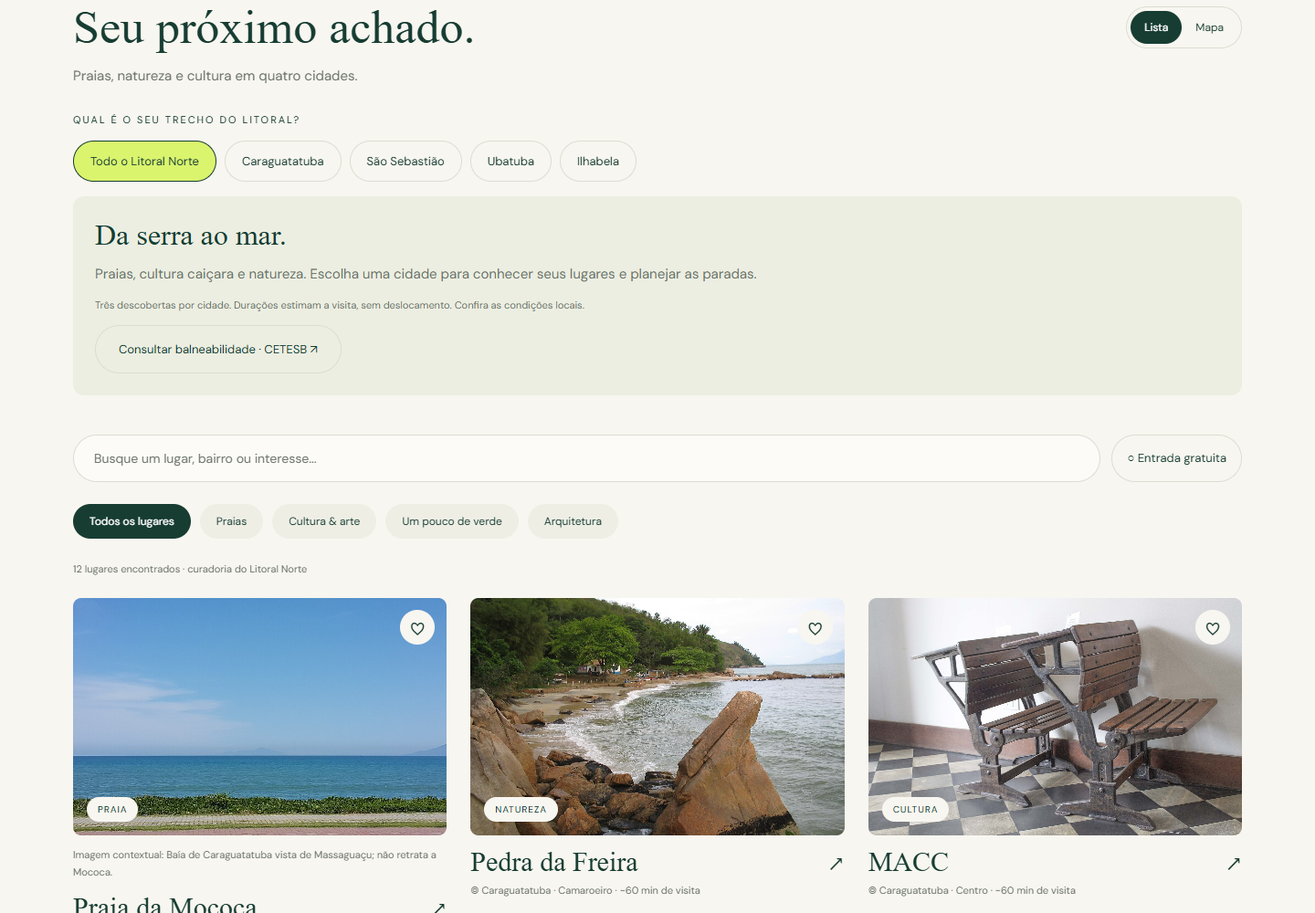
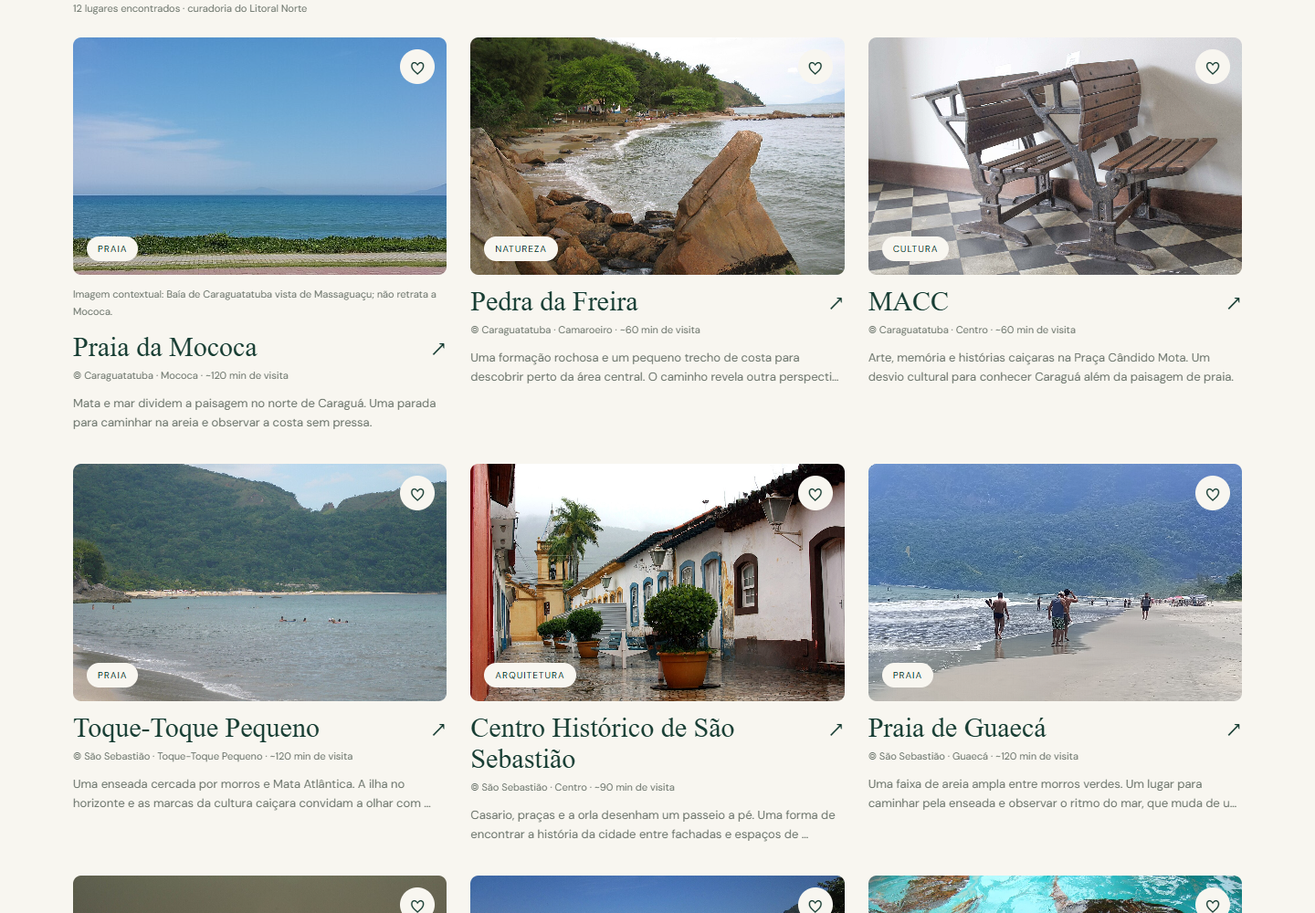
docs: verify coastal release and update screenshots and academic PDF

diff --git a/docs/ENTREGA.md b/docs/ENTREGA.md
@@ -10,19 +10,19 @@
 
 **Equipe:** identificação pendente
 
-Projeto acadêmico original de guia pessoal de São Paulo, com Expo e React Native. Campos de equipe e QA físico precisam de fatos fornecidos pelos alunos; não são resultados presumidos. A responsabilidade pelo código, inclusive apoio de IA, é da equipe.
+Projeto acadêmico original de guia pessoal do Litoral Norte, com Expo e React Native. Campos de equipe e QA físico precisam de fatos fornecidos pelos alunos; não são resultados presumidos. A responsabilidade pelo código, inclusive apoio de IA, é da equipe.
 
 ## 1. Motivação do projeto
 
 ### Problema e público
 
-Estudantes e moradores querem um passeio cultural ou ao ar livre sem navegar por listas enormes. Reunir história curta, endereço, fonte oficial e uma lista pessoal ajuda a decidir e lembrar o que visitar. O catálogo inicial tem seis lugares reais; não pretende representar toda São Paulo nem prometer atrações secretas.
+Estudantes e moradores querem um passeio cultural ou ao ar livre sem navegar por listas enormes. Reunir história curta, endereço, fonte oficial e uma lista pessoal ajuda a decidir e lembrar o que visitar. A descoberta reúne 12 lugares reais: três em cada cidade de Caraguatatuba, São Sebastião, Ubatuba e Ilhabela. Não pretende representar todos os atrativos nem prometer lugares secretos.
 
-**Persona ilustrativa, não entrevistada:** Júlia, 21 anos, estudante em São Paulo, tem algumas horas livres no fim de semana e quer combinar dois espaços culturais. Deseja guardar opções, ordenar paradas e anotar lembranças sem criar conta. Essa hipótese precisa de validação com usuários; não há ganho de tempo medido.
+**Persona ilustrativa, não entrevistada:** Júlia, 21 anos, estudante e moradora de Caraguatatuba, quer conhecer a própria cidade e planejar um passeio nas cidades vizinhas de São Sebastião, Ubatuba ou Ilhabela. Deseja guardar opções, ordenar paradas e anotar lembranças sem criar conta. Essa hipótese precisa de validação com usuários; não há ganho de tempo medido.
 
 ### Proposta de valor e mobile
 
-“Faça um pequeno desvio na rotina.” Descoberta editorial, favoritos, roteiro de até seis paradas e passaporte privado com notas de até 280 caracteres compõem um fluxo individual. O celular acompanha o passeio: GPS oferece proximidade/verificação de posição, câmera registra lembrança e haptics confirma interação. Visita manual tem identificação própria e não simula GPS.
+“Faça um pequeno desvio na rotina.” Escolha de cidade, busca por nome/bairro/cidade, categoria Praias e descoberta editorial, favoritos, roteiro de até seis paradas e passaporte privado com notas de até 280 caracteres compõem um fluxo individual. O celular acompanha o passeio: GPS oferece proximidade/verificação de posição, câmera registra lembrança e haptics confirma interação. Visita manual tem identificação própria e não simula GPS.
 
 A camada mobile foi criada para este projeto. A versão web tem mapa Leaflet/OSM e layout editorial; não substitui os recursos físicos nativos. Assets são empacotados no aplicativo. Web exige primeira abertura online e não garante hard reload offline; mapas e links externos dependem de conexão. Sem backend, conta ou sincronização: o recorte evita coleta remota desnecessária e simplifica uso individual. Limpar armazenamento/desinstalar pode apagar dados.
 
@@ -71,7 +71,7 @@ Durante a revisão, foi encontrado risco de salvar nota antiga quando o texto er
 - Validar busca combinada, acentos, coordenadas, unicidade/limite do roteiro e evolução dos IDs do catálogo em regras puras.
 - Persistir foto capturada na área do app e tratar cancelamento/recusa sem perder notas; URI temporária não comprova persistência.
 - Diferenciar distância aproximada em linha reta de navegação real e visita manual de confirmação por GPS.
-- Distinguir hero fictícia gerada por IA de fotografias documentais de arquivo, com créditos e licenças; apresentar preços condicionais com honestidade editorial.
+- Identificar a hero regional real de Jabaquara, Ilhabela e fotos documentais de arquivo, com créditos e licenças; apresentar preços condicionais com honestidade editorial.
 
 Os itens preventivos são critérios de investigação, separados dos obstáculos reais relatados acima. Resultados concretos de implementação/QA devem ser acrescentados pelo responsável com evidência; não há teste físico aprovado nesta versão.
 
@@ -100,14 +100,14 @@ Atlas Obscura combina mapa, histórias, listas e registro de lugares visitados. 
 
 | Dimensão | Google Maps | Atlas Obscura | Desvio |
 | --- | --- | --- | --- |
-| Recorte | Navegação/descoberta ampla | Descobertas e histórias | Seis lugares paulistanos |
+| Recorte | Navegação/descoberta ampla | Descobertas e histórias | 12 lugares do Litoral Norte |
 | Guardar | Listas | Listas e visitados | Favoritos/roteiro/passaporte |
-| Navegação | Serviço próprio anunciado | Mapa anunciado | Link Google Maps; distância aproximada |
+| Navegação | Serviço próprio anunciado | Mapa anunciado | Google Maps em modo carro |
 | Dados pessoais | Serviço de conta | Recursos de comunidade | Locais, sem conta/backend |
 
 ### Críticas públicas e limites
 
-**Atlas Obscura, Ashley Arnold, 02/09/2026:** uma avaliação na Google Play relata insatisfação com a cobertura de seu bairro parisiense. É opinião individual, não prova da cobertura atual em São Paulo. Consequência para o Desvio: comunicar claramente a dimensão reduzida do catálogo, sem prometer completude. [Avaliação exibida na loja](https://play.google.com/store/apps/details?id=com.atlasobscura.android&hl=en_US).
+**Atlas Obscura, Ashley Arnold, 02/09/2026:** uma avaliação na Google Play relata insatisfação com a cobertura de seu bairro parisiense. É opinião individual, não prova da cobertura atual no Litoral Norte. Consequência para o Desvio: comunicar claramente a dimensão reduzida e regional do catálogo, sem prometer completude. [Avaliação exibida na loja](https://play.google.com/store/apps/details?id=com.atlasobscura.android&hl=en_US).
 
 **Atlas Obscura, Jeffrey Carpenter, 29/10/2022:** critica a busca por cidade. O desenvolvedor responde em 27/01/2023 que adicionou busca por localização. O relato é histórico e não demonstra falha atual. Consequência: testar busca e clareza do recorte. [Avaliação e resposta na loja](https://play.google.com/store/apps/details?id=com.atlasobscura.android&hl=en_US).
 
@@ -127,7 +127,7 @@ O diferencial pretendido é um fluxo pessoal curto, em português, com curadoria
 | Recursos nativos | 15% | GPS, câmera, haptics e persistência demonstrados em aparelho |
 | GitHub/README | 10% | Instruções, galeria real, .gitignore e commits reais do grupo |
 
-Prazo do enunciado: 07/12 às 23h59; confirmar o ano com o professor. Entregar link de repositório acessível e PDF. Publicação confirmada: [aplicação HTTPS](https://desvio-lugares.vercel.app) e [repositório público](https://github.com/EznRB/desvio-lugares). Rotas de início, lugar, roteiro, passaporte e créditos responderam HTTP 200; o fluxo remoto aprovou 30 verificações, sem erros de página. Evidências e versão verificada em VERIFICACAO.md. Participação real da equipe e hardware físico continuam pendentes.
+Prazo do enunciado: 07/12 às 23h59; confirmar o ano com o professor. Entregar link de repositório acessível e PDF. Publicação confirmada: [aplicação HTTPS](https://desvio-lugares.vercel.app) e [repositório público](https://github.com/EznRB/desvio-lugares). Rotas de início, lugar, roteiro, passaporte e créditos responderam HTTP 200; o fluxo regional remoto aprovou 44 verificações, sem erros de página. Evidências e versão verificada em VERIFICACAO.md. Participação real da equipe e hardware físico continuam pendentes.
 
 - [ ] Preencher integrantes, matrículas, GitHub e responsabilidades reais.
 - [ ] Validar aparelho físico conforme VALIDACAO-MOBILE.md.
@@ -138,4 +138,13 @@ Prazo do enunciado: 07/12 às 23h59; confirmar o ano com o professor. Entregar l
 
 ## Honestidade visual e fontes
 
-Hero gerada por IA é cena fictícia. As seis fotografias Wikimedia Commons retratam os locais identificados, mas são registros de arquivo e não garantem estado atual. Créditos, autores, datas, licenças e adaptações constam em CREDITOS-FOTOS.md e na tela Créditos acessível pelo rodapé; os dados também ficam em src/data/credits.ts. Fontes oficiais e limites de preços/acesso estão em REFERENCIAS.md. Fotografias de terceiros não comprovam uma visita do usuário. Não inventar entrevistas, reviews ou resultados de hardware.
+A abertura regional usa fotografia real de Jabaquara, Ilhabela. Das 12 imagens regionais, onze mostram o lugar exato; Mococa usa imagem contextual de Caraguatatuba, identificada por legenda. Créditos, autores, licenças e adaptações ficam em CREDITOS-LITORAL.md e src/data/coastal-photos.ts. São registros de arquivo, sem garantia de estado atual. Créditos do acervo anterior continuam em CREDITOS-FOTOS.md. Fontes oficiais e limites de preços/acesso estão em REFERENCIAS.md. Fotografias de terceiros não comprovam uma visita do usuário. Não inventar entrevistas, reviews ou resultados de hardware.
+
+
+## Especialização regional e continuidade
+
+O seletor de cidade delimita a descoberta e a busca inclui município. Roteiros abrem Google Maps em modo carro, com aviso de balsa quando incluem Ilhabela; o aplicativo não calcula filas, tarifas ou condições atuais da travessia. Pinos editoriais aproximados não representam entrada de trilha nem acesso GPS preciso. O passaporte verifica proximidade com essas limitações, sem certificar identidade ou segurança do local.
+
+As seis entradas anteriores de São Paulo continuam no acervo por compatibilidade com links e dados pessoais, mas ficam fora do Descobrir regional. Preservar favoritos, roteiros e passaporte evita perda de histórico na evolução do catálogo. FONTES-LITORAL.md documenta as fontes e condições variáveis: gratuidades de praias referem-se somente à areia; serviços/transporte são independentes. Não são informados horários ou balneabilidade em tempo real.
+
+A versão regional aprovou 44 verificações E2E remotas sem erros, incluindo detalhes das quatro cidades. Deploy 086b6bd Ready: [implantação](https://desvio-lugares-mm054oz75-eznrbs-projects.vercel.app). [CI aprovada](https://github.com/EznRB/desvio-lugares/actions/runs/43529913243): instalação limpa, nove testes, TypeScript, lint, Expo Doctor e exportações Android/web. Evidências em VERIFICACAO.md. Equipe e hardware físico permanecem pendentes. O benchmark mantém a pesquisa anterior, sem superioridade regional comprovada.

diff --git a/docs/VERIFICACAO.md b/docs/VERIFICACAO.md
@@ -1,35 +1,49 @@
-# Verificação — Desvio
+# Verificação — Desvio Litoral Norte
 
-Registro de 13/11/2026. Node24; Chrome desktop e viewport390×844. Logs completos locais em logs/ (ignorados no Git).
+Registro de 13/11/2026. Código regional validado no commit `086b6bd`. Node24; Chrome desktop1440×1000 e viewport mobile390×844. Logs integrais locais em logs/ (ignorados no Git).
 
 | Verificação executada | Resultado |
 | --- | --- |
-| npm test | 5 testes aprovados: filtros/acentos, Haversine, trajetos, persistência/evolução e dados corrompidos |
+| npm test | 9 testes aprovados: filtros/acentos/cidades, Haversine, trajetos, catálogo/fotos, preservação de dados e corrupção |
 | npm run typecheck | Aprovado, sem erros |
 | npm run lint | Aprovado, sem erros/avisos |
-| npx expo-doctor | 20/20 verificações aprovadas |
-| Inicialização Expo | Metro iniciado offline na porta8083, sem erros de configuração |
-| Expo export web | Bundle gerado em dist |
-| Expo export Android | Bundle Hermes gerado em dist-android; não equivale a APK ou teste físico |
-| node scripts/e2e.cjs | 30 verificações aprovadas, nenhum pageerror |
-| node scripts/visual-check.cjs | 4 capturas reais; revisão visual desktop/mobile; sem overflow horizontal |
-| PDF | 6 páginas; extração e renderização verificadas, sem cortes observados |
-| Revisão de código | Nota durante GPS/câmera corrigida: campo bloqueado enquanto a operação aguarda |
+| Expo Doctor | Aprovado no CI da versão regional |
+| Expo export web | Bundle regional gerado em dist |
+| Expo export Android | Bundle Hermes regional gerado; não equivale a APK ou teste físico |
+| E2E local | 44 verificações aprovadas, sem pageerror |
+| E2E produção HTTPS | Mesmas 44 verificações aprovadas, sem pageerror |
+| Revisão visual | 5 capturas reais desktop/mobile; sem overflow horizontal observado |
+| Revisão de código | Sem achados acionáveis em filtro, continuidade de dados e roteiro |
 
-## Escopo do navegador
-Busca combinada com categoria/gratuidade, acentos, vazio e limpar; favorito e visita após recarga; adicionar/remover/reordenar roteiro e abrir Google Maps; seis marcadores Leaflet e seleção; nota manual corretamente identificada; remover visita com confirmação; link inválido; navegação e escrita offline após primeira abertura; dados corrompidos preservados; falha de quota sem falsa confirmação ou gravação parcial e recuperação posterior. Asserções verificam estado persistido e interface, sem depender de fotos ou GPS simulados.
+## Cenários de navegador
+- Cada uma das quatro cidades retorna três lugares; busca por `sao sebastiao` funciona sem acentos e combina com categoria, cidade e gratuidade. Limpar filtros recupera os12 lugares.
+- Favoritos e visitas persistem após recarga; nota manual não simula GPS; remoção de visita exige confirmação.
+- Adicionar/remover/reordenar roteiro; Google Maps recebe as paradas. Ilhabela mostra aviso de travessia; deslocamentos são de carro, não um passeio a pé entre municípios.
+- Mapa com12 marcadores e seleção do lugar; navegação em viewport mobile sem rolagem horizontal da página.
+- Navegação e escrita offline depois da abertura; sem promessa de reabertura web por hard reload sem rede.
+- Dados locais corrompidos não são sobrescritos; falha de quota não publica estado não persistido e permite nova tentativa.
+- Um contexto isolado com favoritos, roteiro e visita da capital foi carregado na versão regional; depois de salvar um novo favorito do litoral, todos os registros anteriores permaneceram intactos. Os seis locais antigos continuam acessíveis por links/salvos, fora da descoberta principal.
+- Estados dos filtros expostos com aria-pressed/aria-checked no navegador, preservando accessibilityState nativo.
 
-Para reproduzir: Node24, npm ci, npx expo export --platform web --max-workers 2, npm run preview em outro terminal e node scripts/e2e.cjs. Chrome instalado ou CHROME_PATH apontando para executável compatível. BASE_URL permite testar outra implantação.
+## Publicação e CI
 
-## Limites e pendências acadêmicas
-- Nenhum aparelho físico foi conectado: câmera, GPS, permissões negadas/canceladas, fotos após reinício e haptics exigem o roteiro em VALIDACAO-MOBILE.md. Não declarar esses casos aprovados com uma captura de navegador.
-- Preencher integrantes/matrículas/papéis e registrar contribuições reais. O histórico não foi distribuído artificialmente entre autores.
-- Web não garante reabertura offline por hard reload; mapa e links externos precisam de rede. Dados são locais, sem sincronização/conta.
-- npm audit --omit=dev registrou três entradas moderadas da mesma cadeia Expo → fingerprint → minimatch, sem entradas altas/críticas. O advisory de amplificação de globs afeta ferramenta de build, sem glob fornecido pelo visitante neste app. A sugestão automática de downgrade para Expo52 não foi aplicada por quebrar a base SDK58. Reavaliar quando a cadeia Expo publicar atualização compatível; relatório integral local logs/audit.json.
+Site: https://desvio-lugares.vercel.app
+Repositório: https://github.com/EznRB/desvio-lugares
+Implantação regional: https://desvio-lugares-mm054oz75-eznrbs-projects.vercel.app — READY.
 
-## Publicação
-Site público: https://desvio-lugares.vercel.app. Repositório público: https://github.com/EznRB/desvio-lugares.
+HTTPS200 observado no início e em links diretos para /place/caragua-mococa, /place/saoseb-centro-historico, /place/ubatuba-tamar e /place/ilhabela-vila. O script E2E executado com BASE_URL público passou nas44 verificações. As escritas acontecem apenas no armazenamento dos contextos isolados de teste, sem dados públicos.
 
-Vercel deployment dpl_HxZwXMchmAVUEP3ER7AHvmEuNScw em estado READY. HTTP200 por HTTPS em /, /place/vila-itororo, /route, /passport e /credits sem login. O mesmo scripts/e2e.cjs executado com BASE_URL de produção passou nas 30 verificações, sem pageerror. Testa dados locais do contexto isolado do navegador; não cria dados públicos.
+CI Linux aprovado: https://github.com/EznRB/desvio-lugares/actions/runs/43529913243. Instalação limpa, testes, TypeScript, lint, Doctor e exportações Android/web concluídos com sucesso. Deploy automático do GitHub para a Vercel confirmado no push regional.
 
-GitHub Actions executou instalação limpa, 5 testes, TypeScript, lint, Doctor e exportações Android/web em Linux: https://github.com/EznRB/desvio-lugares/actions/runs/43483026184.
+## Reprodução
+
+Node24, npm ci, npx expo export --platform web --max-workers 2, npm run preview em outro terminal e node scripts/e2e.cjs. Chrome instalado ou CHROME_PATH apontando para executável compatível. BASE_URL permite verificar outra implantação. node scripts/visual-check.cjs produz as cinco capturas; esta prévia deve servir o bundle atualizado.
+
+## Limites mantidos
+
+- Câmera, GPS, recusa/cancelamento de permissões, haptics e fotos após reinício ainda precisam de aparelho físico conforme VALIDACAO-MOBILE.md. A exportação Android e a viewport mobile não comprovam esses casos.
+- Preencher equipe, matrículas, papéis e contribuições reais antes da submissão; não há autores ou histórico artificialmente distribuídos.
+- Dados são locais, sem conta/sincronização. Web e mapas externos não têm garantia de reabertura offline.
+- Pinos e durações são referências editoriais. Horários, valores, balneabilidade e operação da balsa não são dados em tempo real. Fontes em FONTES-LITORAL.md.
+- Onze fotos regionais representam o lugar exato; a de Mococa é contextual da Baía de Caraguatatuba vista de Massaguaçu, com legenda explícita. Autoria/licenças em CREDITOS-LITORAL.md e no app.
+- A auditoria de dependências anterior, com o mesmo package-lock, registrou três entradas moderadas na cadeia Expo → fingerprint → minimatch, sem altas/críticas no recorte de produção. Não foi repetida sem alteração de dependências. A sugestão automática de downgrade para SDK52 não foi aplicada por incompatibilidade. Relatório original local logs/audit.json.

diff --git a/README.md b/README.md
@@ -1,6 +1,6 @@
 # Desvio
 
-**Pequenas descobertas, outro jeito de ver São Paulo.** Guia pessoal de seis lugares com curadoria, favoritos, roteiro e passaporte de visitas. Aplicativo original em React Native, Expo SDK 58, TypeScript e Expo Router; experiência web editorial e recursos móveis próprios.
+**Pequenas descobertas pelo Litoral Norte.** Guia pessoal de 12 lugares, três por cidade em Caraguatatuba, São Sebastião, Ubatuba e Ilhabela, com curadoria, favoritos, roteiro e passaporte de visitas. Aplicativo original em React Native, Expo SDK 58, TypeScript e Expo Router; experiência web editorial e recursos móveis próprios.
 
 ## Executar
 
@@ -27,10 +27,10 @@ A prévia local serve o bundle web exportado. Resultados efetivamente executados
 
 ## O que fazer no app
 
-1. Explorar seis lugares de São Paulo; buscar nome/bairro e combinar categoria com entrada gratuita.
+1. Escolher cidade e explorar 12 lugares do Litoral Norte; buscar nome/bairro/cidade e combinar categoria (incluindo Praias) com entrada gratuita.
 2. Abrir detalhes, endereço, história e fonte oficial. Tempos são estimativas editoriais; preços/programação precisam de confirmação no local oficial.
 3. Guardar favoritos e recuperá-los ao reabrir.
-4. Montar roteiro de até seis paradas, alterar ordem e abrir trajeto no Google Maps. A interface mostra duração estimada de visita; não apresenta distância do roteiro como percurso viário.
+4. Montar roteiro de até seis paradas, alterar ordem e abrir trajeto de carro no Google Maps, observando o aviso de travessia por balsa para Ilhabela. A interface mostra duração estimada de visita; não apresenta distância do roteiro como percurso viário.
 5. Registrar visita manual e nota de até 280 caracteres no passaporte. No mobile, usar GPS e câmera conforme permissões; uma visita manual não simula comprovação GPS.
 
 ## Galeria e publicação
@@ -40,13 +40,15 @@ Capturas reais produzidas pelo QA de navegador; podem ser substituídas pela ver
 ![Desktop - captura de navegador](docs/screenshots/desktop.png)
 ![Catálogo desktop](docs/screenshots/desktop-catalog.png)
 ![Mobile - captura de navegador](docs/screenshots/mobile.png)
+
+[Seletor de cidades no mobile](docs/screenshots/mobile-cities.png). A galeria atual possui cinco capturas reais; consulte também os demais arquivos em docs/screenshots.
 ![Catálogo mobile](docs/screenshots/mobile-catalog.png)
 
 **Publicado:** [Abrir Desvio](https://desvio-lugares.vercel.app) · [GitHub EznRB/desvio-lugares](https://github.com/EznRB/desvio-lugares). HTTPS, rotas diretas e 30 verificações de navegador aprovados na implantação. Evidências e limites em [VERIFICACAO.md](docs/VERIFICACAO.md).
 
 ## Arquitetura e dependências
 
-`src/data/places.ts` concentra catálogo e fontes; `src/domain.ts`, regras puras; `src/store.tsx`, contexto/hook e fila de persistência; `src/app`, navegação Expo Router; componentes de mapa variam por plataforma; `src/native.ts` integra permissões e hardware.
+`src/data/coastal-places.ts` concentra a curadoria regional; `src/data/places.ts` mantém o catálogo consolidado e o acervo anterior; `src/domain.ts`, regras puras; `src/store.tsx`, contexto/hook e fila de persistência; `src/app`, navegação Expo Router; componentes de mapa variam por plataforma; `src/native.ts` integra permissões e hardware.
 
 Base: Expo, React, React Native, TypeScript. Navegação: Expo Router, linking, screens e safe-area-context. Dados locais: AsyncStorage. Mobile: expo-location, expo-image-picker, expo-file-system e expo-haptics. Web: react-native-web, react-dom e Leaflet com OpenStreetMap. Visual: Cormorant Garamond, DM Sans, expo-font, lucide-react-native e SVG. Qualidade: ESLint, expo-doctor, runner Node e playwright-core. Versões em package.json/package-lock.json.
 
@@ -54,7 +56,11 @@ Não existe backend nem autenticação: o uso é individual e os dados ficam no 
 
 ## Imagens e fontes
 
-`assets/hero.png` é uma cena fictícia gerada por IA. As seis fotografias Wikimedia Commons retratam os locais identificados nas fontes. São registros de arquivo, sem garantia do estado atual. Autoria, licença, data e adaptações em [CREDITOS-FOTOS.md](docs/CREDITOS-FOTOS.md), também acessíveis na tela Créditos pelo rodapé. Fontes dos lugares em [REFERENCIAS.md](docs/REFERENCIAS.md).
+A fotografia de abertura regional é Jabaquara, Ilhabela (`assets/coast/ilhabela-jabaquara.jpg`), por RafaelBorgesMundim, CC BY-SA 4.0. As novas fotos ficam em `assets/coast`, com dados de crédito em `src/data/coastal-photos.ts` e [CREDITOS-LITORAL.md](docs/CREDITOS-LITORAL.md). Onze imagens representam o lugar exato; a de Mococa é contextual de Caraguatatuba e deve manter legenda explícita. Registros de arquivo não garantem aparência atual. Fontes editoriais em [FONTES-LITORAL.md](docs/FONTES-LITORAL.md).
+
+O catálogo anterior de São Paulo permanece acessível por links, favoritos, roteiros e passaporte existentes, como acervo fora da descoberta regional. Créditos desse acervo continuam em CREDITOS-FOTOS.md. Pinos são aproximados, não acessos GPS precisos. Não há dados em tempo real de horários, preços, filas de balsa ou balneabilidade.
+
+**Atualização regional validada:** produção HTTPS e 44 verificações E2E remotas aprovadas, sem erros de página. CI aprovada com instalação limpa, nove testes, TypeScript, lint, Expo Doctor e exportações Android/web. Evidências e identificação da versão em [VERIFICACAO.md](docs/VERIFICACAO.md). Hardware físico continua pendente.
 
 ## Avaliação e equipe
 

diff --git a/docs/PROPOSTA.md b/docs/PROPOSTA.md
@@ -1,6 +1,6 @@
 # Desvio — proposta de produto
 
-Guia de pequenas descobertas urbanas. Público: estudantes e moradores que querem um passeio cultural ou ao ar livre sem perder tempo em listas genéricas. Recorte inicial: São Paulo, seis lugares reais com fonte oficial; sem promessas de segredo, avaliações inventadas ou horários supostamente em tempo real.
+Guia de pequenas descobertas pelo Litoral Norte. Público: estudantes e moradores que querem um passeio cultural ou ao ar livre sem perder tempo em listas genéricas. Recorte regional: 12 lugares reais, três por cidade em Caraguatatuba, São Sebastião, Ubatuba e Ilhabela, com fontes oficiais; sem promessas de segredo, avaliações inventadas ou horários supostamente em tempo real.
 
 ## Escolhas desta implementação
 Expo SDK58, React Native, TypeScript e Expo Router: aplicação mobile criada do zero e uma experiência desktop própria. Comparadas uma landing page somente web, uma comunidade social com backend e um guia local, a escolha é um guia funcional com dados curados e passaporte privado. Essa escolha mantém a avaliação mobile e permite concluir todos os fluxos sem exigir contas ou serviços pagos. Comunidade pública e sincronização poderão ser uma evolução; não são apresentadas como recursos existentes.
@@ -8,10 +8,10 @@ Expo SDK58, React Native, TypeScript e Expo Router: aplicação mobile criada do
 Identidade: nome Desvio, papel creme, verde profundo, detalhes lima e terracota; títulos editoriais serifados em Cormorant Garamond, interface DM Sans, fotografia grande e mapa. A imagem de abertura é uma composição ilustrativa; os cartões usam fotografias reais de arquivo dos locais, com autoria e licenças explícitas na tela Créditos.
 
 ## Fluxos de ponta a ponta
-1. Descobrir: explorar a curadoria, pesquisar por nome/bairro e combinar categoria com entrada gratuita.
+1. Descobrir: explorar a curadoria, escolher cidade, pesquisar por nome/bairro/cidade e combinar categoria com entrada gratuita.
 2. Investigar: abrir detalhes, endereço, história resumida, estimativa editorial de tempo e link oficial para preços/programação atual.
 3. Guardar: favoritar e recuperar favoritos após fechar/reabrir o aplicativo; remover com feedback claro.
-4. Planejar: acrescentar até seis paradas ao roteiro, alterar ordem e abrir o trajeto no serviço de mapas. Distâncias locais em linha reta são aproximações, não navegação viária.
+4. Planejar: acrescentar até seis paradas ao roteiro, alterar ordem e abrir o trajeto no serviço de mapas. Trajeto externo usa modo carro e alerta sobre a balsa para Ilhabela; duração de visita é editorial. Pinos aproximados não são acessos GPS precisos.
 5. Registrar: passaporte pessoal com nota de até 280 caracteres e visita manual claramente identificada. No celular: GPS para proximidade, verificação de localização e foto pela câmera, persistida na área do app.
 6. Recuperar: dados salvos localmente; corrupção não causa sobrescrita silenciosa. A web precisa da abertura inicial com internet; não prometer hard reload offline sem service worker.
 
@@ -20,3 +20,8 @@ Layout revisado em desktop e mobile, estados vazios/erros, nomes acessíveis dos
 
 ## Avaliação
 Componentes nativos, Text, FlatList, useState/useEffect/custom hooks/Context, Expo Router, AsyncStorage, GPS/câmera/haptics no mobile e documentação dos quatro pilares. Nomes/matrículas/participação real do grupo serão preenchidos pelos alunos; nada de autoria fictícia. Não reutilizar a camada mobile do Arena.
+
+
+## Continuidade e verificação regional
+
+Lugares anteriores de São Paulo permanecem como acervo fora do Descobrir, preservando IDs, favoritos, roteiro, passaporte e links. Não apagar dados pessoais para especializar a curadoria. Fontes do catálogo regional em FONTES-LITORAL.md. Não publicar horários, balneabilidade, ingresso ou fila de balsa como informação em tempo real. A versão regional foi publicada e aprovada em 44 verificações E2E remotas sem erros de página. CI aprovou instalação limpa, nove testes, TypeScript, lint, Expo Doctor e exportações Android/web; evidências em VERIFICACAO.md. Hardware físico e equipe real continuam pendentes.

diff --git a/docs/REFERENCIAS.md b/docs/REFERENCIAS.md
@@ -1,8 +1,16 @@
-# Referências e créditos - Desvio
+# Referências e créditos - Desvio regional
+
+## Litoral Norte
+
+O catálogo atual possui 12 lugares, três por cidade de Caraguatatuba, São Sebastião, Ubatuba e Ilhabela. Fontes primárias e notas editoriais estão em [FONTES-LITORAL.md](FONTES-LITORAL.md); o catálogo está em src/data/coastal-places.ts. Pinos são aproximados e durações são estimativas, sem garantia de acesso preciso, horário atual, gratuidade de todos os serviços ou balneabilidade.
+
+As fotos regionais e hero de Jabaquara, Ilhabela têm créditos em [CREDITOS-LITORAL.md](CREDITOS-LITORAL.md) e src/data/coastal-photos.ts, arquivos em assets/coast. Onze fotos são do lugar exato; Mococa usa fotografia contextual de Caraguatatuba com legenda explícita. Manter autores, licenças e descrição dos recortes. Fotografias são registros de arquivo.
+
+O conteúdo abaixo preserva referências históricas do acervo de São Paulo e benchmark já pesquisado. O acervo fica fora da descoberta regional, mas links/dados pessoais anteriores permanecem disponíveis.
 
 Consulta de benchmark: 13/11/2026. O catálogo usa fontes oficiais ligadas a cada entrada em `src/data/places.ts`; informações editoriais não são serviço em tempo real.
 
-## Fontes dos lugares
+## Fontes do acervo anterior de São Paulo
 
 | Lugar | Fonte oficial |
 | --- | --- |
@@ -28,7 +36,7 @@ A consulta verificou recursos anunciados e avaliações públicas, sem teste com
 
 ## Fotografias reais e imagem de abertura
 
-Hero `assets/hero.png`: composição fictícia produzida com IA para identidade visual, sem representar um local real. As seis imagens Unsplash de referência foram integralmente substituídas por fotografias dos próprios locais, identificadas no Wikimedia Commons. São registros de arquivo; não garantem aparência, conservação ou acesso atuais.
+A antiga hero `assets/hero.png` era composição fictícia produzida com IA; foi substituída na experiência regional pela foto de Jabaquara, Ilhabela. As seis imagens Unsplash de referência foram integralmente substituídas por fotografias dos próprios locais, identificadas no Wikimedia Commons. São registros de arquivo; não garantem aparência, conservação ou acesso atuais.
 
 Consulte [CREDITOS-FOTOS.md](CREDITOS-FOTOS.md) para arquivo original, autoria, data, licença e adaptações. Os mesmos registros são mantidos em `src/data/credits.ts` e na tela Créditos, acessível pelo rodapé. Arquivos foram redimensionados/convertidos para JPEG e a interface pode recortar sua exibição. Manter atribuições e condições de cada licença ao redistribuir.
 
@@ -46,3 +54,7 @@ Consulte [CREDITOS-FOTOS.md](CREDITOS-FOTOS.md) para arquivo original, autoria, 
 [Expo](https://docs.expo.dev/) · [React Native](https://reactnative.dev/) · [Expo Router](https://docs.expo.dev/router/introduction/) · [Leaflet](https://leafletjs.com/) · [OpenStreetMap e atribuição](https://www.openstreetmap.org/copyright).
 
 Leaflet é usado somente na web. O mapa deve exibir atribuição OpenStreetMap; não presumir licença livre de obrigações para tiles ou disponibilidade offline. Google Maps é serviço externo de navegação, não backend do passaporte. Fontes/fontes tipográficas e bibliotecas devem conservar suas licenças de distribuição.
+
+## Evidência de integração regional
+
+Catálogo regional e interface validados em 44 verificações E2E remotas sem erros de página. Publicação HTTPS em https://desvio-lugares.vercel.app; comandos, CI e versão em VERIFICACAO.md. Essa evidência verifica integração, não substitui confirmação de condições atuais dos atrativos nem QA de hardware físico.

diff --git a/docs/VALIDACAO-MOBILE.md b/docs/VALIDACAO-MOBILE.md
@@ -36,3 +36,19 @@ Abrir a página inicialmente online; depois verificar favoritos, roteiro e passa
 - [ ] Acessibilidade e teclado verificados.
 - [ ] Screenshots reais identificados por plataforma.
 - [ ] Problemas encontrados documentados com reprodução, correção e reteste.
+
+
+## Casos adicionais da especialização Litoral Norte
+
+A versão regional aprovou 44 verificações E2E remotas sem erros de página; instalação limpa, nove testes, TypeScript, lint, Expo Doctor e exportações Android/web passaram na CI. Evidências em VERIFICACAO.md. Isso não marca os casos físicos como aprovados; viewport mobile continua sendo navegador.
+
+| Caso | Ação | Resultado esperado |
+| --- | --- | --- |
+| R01 | Alternar as quatro cidades e combinar busca/categoria/Praias/gratuito | Três entradas por cidade sem filtro; combinação coerente; resumo da cidade correto |
+| R02 | Buscar nome de município com/sem acento e voltar ao catálogo | Busca inclui cidade; não mantém filtro invisível incoerente |
+| R03 | Abrir favorito, roteiro, passaporte e link antigos de São Paulo | Dados preservados como acervo; entradas antigas fora do Descobrir regional |
+| R04 | Montar roteiro regional com Ilhabela e abrir mapas | Modo carro; aviso de balsa claro; sem promessa de fila/horário/rota precisa |
+| R05 | Conferir fotos e créditos dos 12 lugares e hero | Jabaquara, Ilhabela, na abertura; Mococa contextual explicitamente legendada; fontes/licenças acessíveis |
+| R06 | Usar GPS perto de pin editorial aproximado | Proximidade não tratada como acesso exato, comprovação de identidade ou garantia de segurança |
+
+Balneabilidade, condições de trilhas, chuva, travessia e ingresso exigem consulta às fontes responsáveis. Não inferir segurança de banho a partir de categoria gratuita ou fotografia. Registros de arquivo não garantem acesso atual.

diff --git a/docs/superpowers/plans/2026-11-13-litoral-norte.md b/docs/superpowers/plans/2026-11-13-litoral-norte.md
@@ -7,8 +7,8 @@ Escopo: Caraguatatuba, São Sebastião, Ubatuba e Ilhabela, mantendo identidade/
 - [x] Continuidade: os seis lugares anteriores ficam como acervo para manter favoritos, roteiros, visitas e links. Descoberta mostra apenas o litoral.
 - [x] Navegação: cartões/detalhes/roteiro/passaporte identificam a cidade, mapa enquadra o litoral e trajetos usam carro, com aviso de travessia para Ilhabela.
 - [x] Verificação: testes de filtros, trajeto e preservação de dados; lint/TypeScript, exportações web/Android; navegador desktop/mobile, filtros das quatro cidades e fluxos persistidos; revisão visual.
-- [ ] Entrega: documentação/créditos atualizados, commit/push e deploy, checagem HTTPS da atualização.
+- [x] Entrega: documentação/créditos atualizados, commit/push e deploy, checagem HTTPS da atualização.
 
 QA de câmera/GPS físico continua dependendo de aparelho; a especialização não adiciona permissões nem coleta dados novos.
 
-Checkpoint: 9 testes de regras, TypeScript, lint, exportações web/Android e 44 verificações de navegador aprovados localmente. Capturas desktop/mobile revistas. Publicação regional pendente de conferência HTTPS.
+Checkpoint: 9 testes de regras, TypeScript, lint, exportações web/Android e 44 verificações de navegador aprovados localmente. Capturas desktop/mobile revistas. Publicação regional aprovada por HTTPS: 44 verificações remotas, CI aprovado e fontes/créditos atualizados. Evidências em docs/VERIFICACAO.md.
